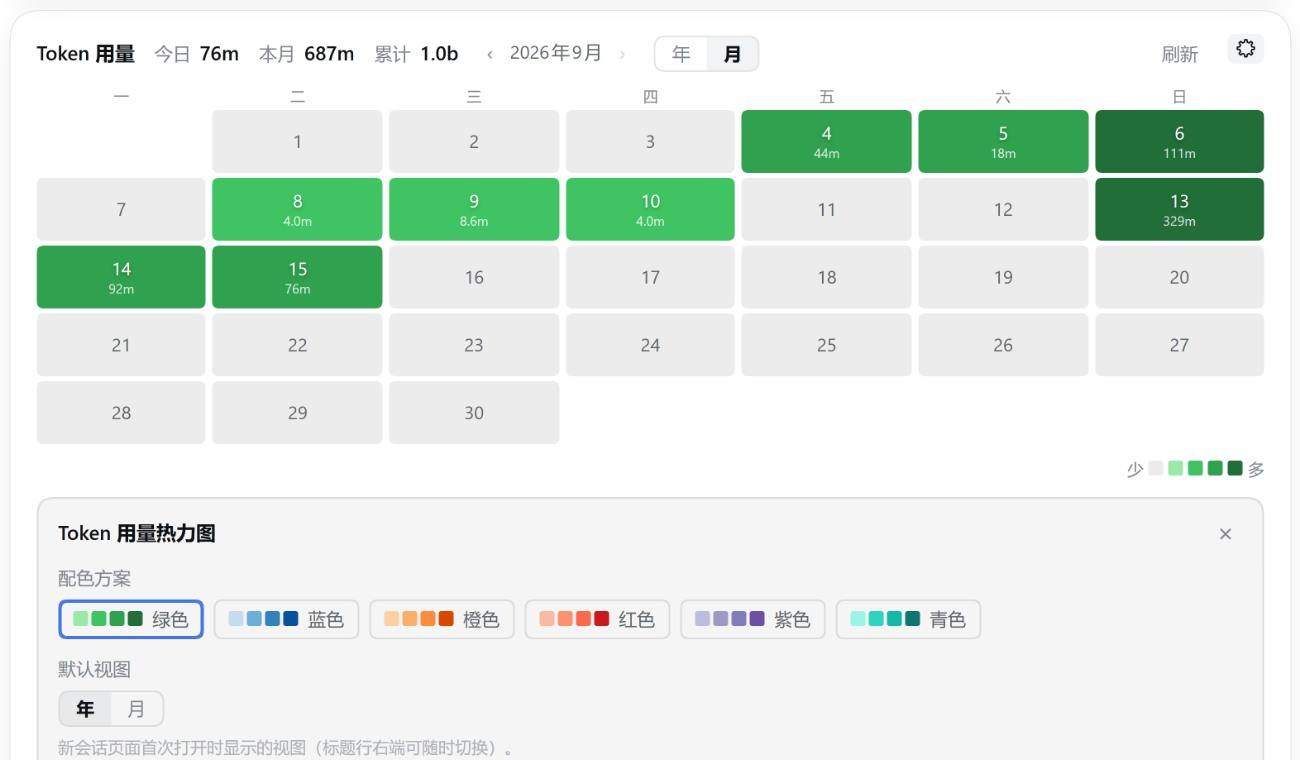
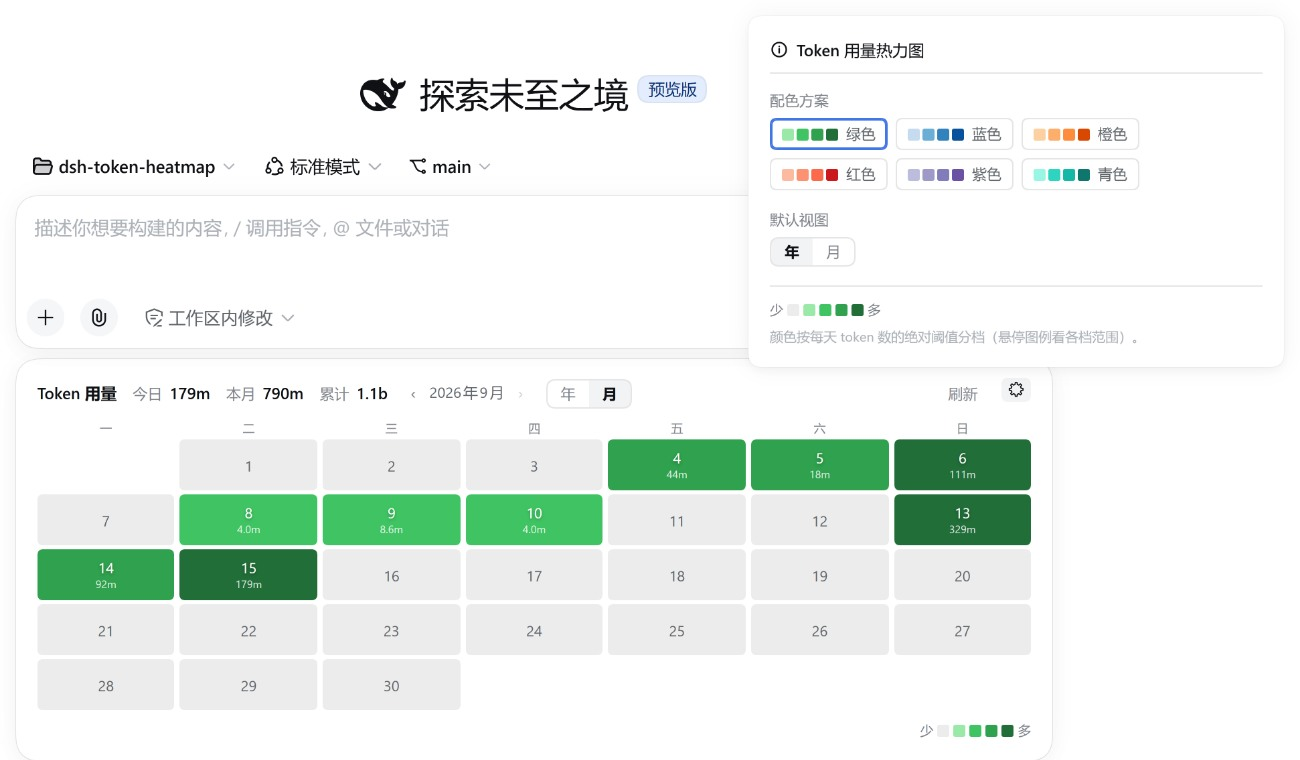
docs: document and re-shoot the floating settings panel
The ⚙ panel is a floating dialog now, so the README section and the
compatibility log describe its placement/dismissal and the 0.4.2 entry
explains the react-dom portal; all four README images are re-captured from the
live GUI (the settings shot crops the union of the card and the portaled
panel).

diff --git a/README.md b/README.md
@@ -31,10 +31,10 @@ GitHub 风格自然年热力图：覆盖所选自然年 1月–12月（`‹ 2026
 
 ### 卡片设置 / In-card settings
 
-![⚙ 设置面板](docs/卡片设置面板.jpg)
+![⚙ 悬浮设置面板](docs/卡片设置面板.jpg)
 
-- ⚙ **设置就在卡片上**：点标题行最右端的 **⚙**（`刷新 [⚙]`）在卡片底部展开设置面板，再点一次、点面板的 **×**、按 **Esc**、或把焦点移出面板都会收起。**插件不再往 DSH 设置（设置 → 插件 → 插件配置）里注册任何卡片**，所以那里看不到本插件。
-- **配色方案**：六个色板按钮，**点击即时生效**（不需要"保存"）；**默认视图**：年 / 月，决定新会话页面首次打开时显示哪个视图（当次会话手动切换只影响当前页面）。
+- ⚙ **设置就在卡片上**：点标题行最右端的 **⚙**（`刷新 [⚙]`）弹出**悬浮设置面板** —— 位置在 ⚙ 正上方 8px、水平居中对齐、贴边留 12px，超出视口会自动钳制；点面板外的任意位置、按 **Esc**、或再点一次 ⚙ 都会收起。**插件不再往 DSH 设置（设置 → 插件 → 插件配置）里注册任何卡片**，所以那里看不到本插件。
+- **配色方案**：六个色板按钮，**点击即时生效**（不需要"保存"）；**默认视图**：年 / 月，决定新会话页面首次打开时显示哪个视图（当次会话手动切换只影响当前页面）。面板底部是阈值图例（悬停看各档范围）与一行说明。
 - 写入失败时面板底部会红字提示"保存失败，已回到服务端的值"（settings scope 复核后回滚乐观值）。
 - 配置经 `token-heatmap` settings namespace 持久化到 `<DSH_HOME>/settings.yaml`（0.1.1 及更早版本存在 `<DSH_HOME>/storages/token-heatmap-config.json` 的旧配置会在启动时自动迁移）。
 
@@ -91,6 +91,7 @@ dsh plugin --profile web remove @kidli1412/dsh-token-heatmap
 - **0.4.0（设置搬进卡片）**：不再注册官方 `settings.plugin.item` 插槽——设置页（设置 → 插件 → 插件配置）里不再有本插件的卡片，配色与默认视图改在卡片自己的 ⚙ 面板里改，**点击即时生效**（去掉了草稿/保存/放弃那套）。Host 侧 `settings.register("token-heatmap", schema)` 保留：它是 settings.yaml 的校验与持久化管道，与 UI 卡片无关（官方 `settings` 服务的 `get`/`update` 只对已注册 namespace 生效）。升级只影响设置入口位置，已有配置不动。
 
 - **0.4.1（fork 会话不再重复计入父会话用量）**：DSH 的 fork 子会话（header `isSeeded=true`）日志以父会话事件的完整复制开头，其前 `inheritedEventCount` 个事件是**父会话**的 usage（父会话折叠时已计入）。此前折叠从 seq 0 读整份日志，同一批 token 被计两次——实测 2026-09-14 由 8.34 亿虚增到 13.15 亿。现在三条折叠路径（`collectUsage` 的 live 折叠、`session/event` 实时监听、stored 日志读取）都从 fork 切点开始：live 会话用官方 `session.inheritedEventCount`；stored 日志用最后一个带 `data.inherited === true` 的 `session/end-seed` 的 `seq + 1`（未打标记的 `session/end-seed` 是 compaction 边界，不算切点，与 `dsh-session-format-v2-to-v3` 的切点推导一致）。**resume 不是 fork**：`isSeeded=false` 的会话种子是它自己的历史，仍整份折叠。缓存格式版本提升到 2，旧缓存（可能含重复计入的天数）会被丢弃重建；父会话日志不可得的极端情况下会少计而非多计。
+- **0.4.2（设置改成悬浮面板）**：⚙ 面板从"卡片底部的内嵌条"改为**悬浮面板**——portal 到 `document.body`、`position:fixed`，锚在 ⚙ 上方 8px 且水平居中对齐，按视口钳制（12px 边距），关闭方式为点外部/Esc/再点 ⚙；表面沿用 DSH 原生弹层 token（`--dsw-specific-menu` + `--dsw-elevation-prominent`，配合 `--dsw-elevation-stroke-color` 的发丝边），与底部统计 pill 的弹层一致。为此客户端 bundle 新增 `require("react-dom")`（原生的 `createPortal`），DSH 的模块图里 react-dom 一直存在，旧宿主不受影响。
 
 ## License
 

diff --git a/AGENT.md b/AGENT.md
@@ -22,7 +22,8 @@ DSH（DeepSeek Harness）web 插件：新会话（hero）屏上的 GitHub 风格
 - `lib/config.js` — 纯函数：`DEFAULT_CONFIG` / `parseConfig`（短字符串 shape 约束 + `defaultView` 枚举；0.1.x 的 `enabled` 已废弃、读到即忽略）
 - `lib/client.js` — 浏览器 half：**手写 `window.__ModuleLoader__.load({id, factory})` bundle，无构建步骤**；React 组件（`require("react")` / `require("react/jsx-runtime")`）；CSS 走 `data-plugin-css` 通道
   - **只注册 `conversation.input.dock`**（list slot，id `token-heatmap`，order 10）——hero 屏输入卡上方全宽条目（**无显示开关**：hero 屏始终渲染）。0.4.0 起**不注册 `settings.plugin.item`**：设置页里没有本插件的卡片，配置改在卡片内（见下），若哪天要恢复就得同时带上 `key: SETTINGS_NS`（keyed slot 契约）
-  - `TokenHeatmapInlineSettings` —— 卡片底部展开的内嵌设置面板（`S.settingsPanel`，内嵌灰底 + 12px 圆角，含标题/×/配色 6 色板/默认视图年月分段/两行说明），由标题行最右端的 ⚙（`S.gear`，`刷新` 右边）切换，`×`/`Esc`/焦点移出面板都会收起；**点击即时写入 settings scope**（无草稿/保存；`pending` 状态做乐观回显，失败显示 `settingsSaveFailed`）
+  - `TokenHeatmapInlineSettings` —— ⚙（`S.gear`，标题行最右端）弹出的**悬浮设置面板**：portal 到 `document.body`、`position:fixed`、`z-index:1100`，锚在 ⚙ 上方 8px 居中、按视口钳制 12px（`placePanel()`，与 dsh-session-cost 的统计 pill 弹层同一套做法与同一组 token：`--dsw-specific-menu` + `--dsw-elevation-prominent` + `--dsw-elevation-stroke-color`）；内容是标题/分隔线/配色 6 色板/默认视图年月分段/底部图例与说明；关闭方式为点外部 pointerdown、Esc、再点 ⚙（监听绑定在 `TokenHeatmap` 上，面板只负责画）。**点击即时写入 settings scope**（无草稿/保存；`pending` 乐观回显，失败显示 `settingsSaveFailed`）
+  - bundle 里 `require("react-dom")` 只服务这个 portal（官方模块图一直提供 react-dom）；`scripts/smoke.mjs` 的 fakeRequire 会跨 profiles / repo 两棵 node_modules 解析它
   - 排布：`标题 · 统计… · ‹ › 步进器 · 年|月分段 … 刷新 · ⚙`（步进器和分段按钮成对，刷新与 ⚙ 收在行尾）
   - 视图：`buildGrid()`（年，53 列 × 7 行）/ `buildMonthGrid()`（月，7 列 × 5–6 行 + 日号），`levelOf()` 绝对阈值分档，`shiftMonthKey()` 月游标步进；默认视图来自 `defaultView` 设置
 - `scripts/*.mjs` — 自包含 smoke（mock ctx / mock settings scope / 临时 DSH_HOME）+ 文档截图工具链（见「修改守则」）
